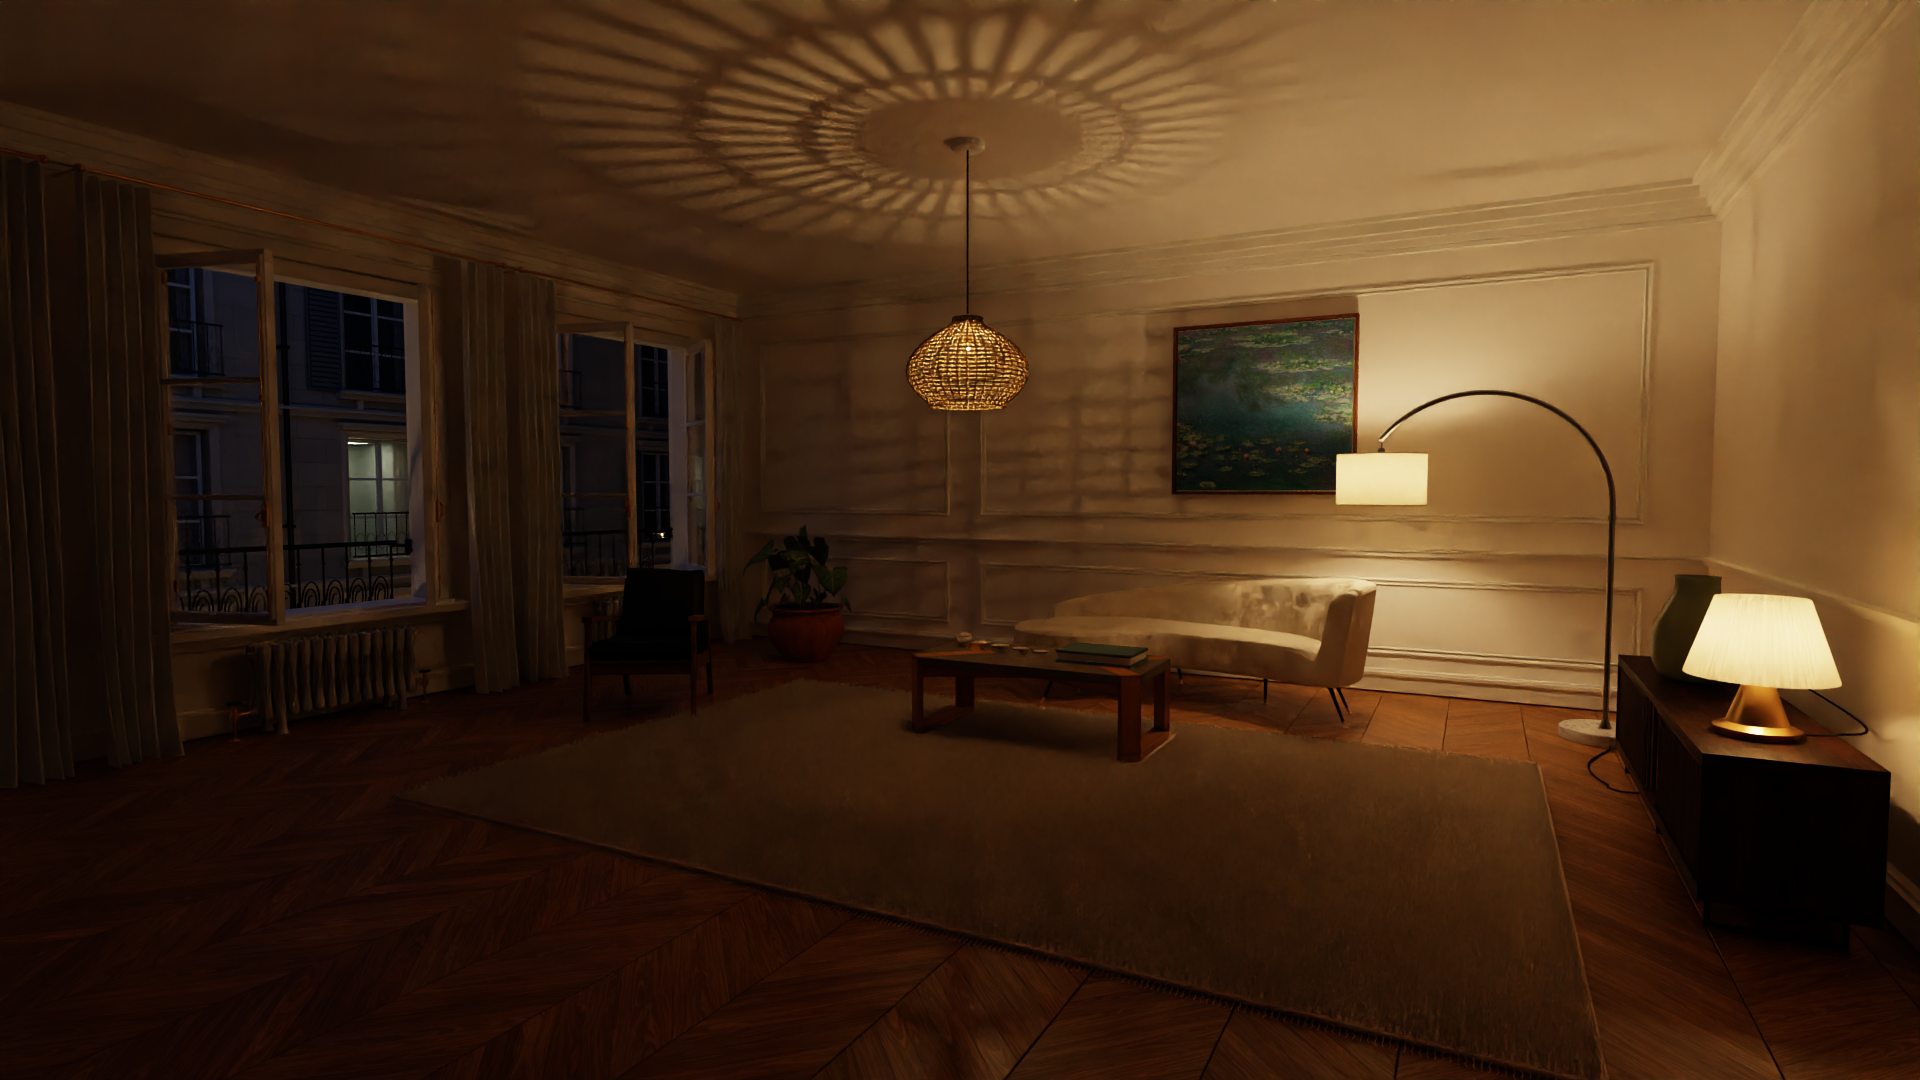
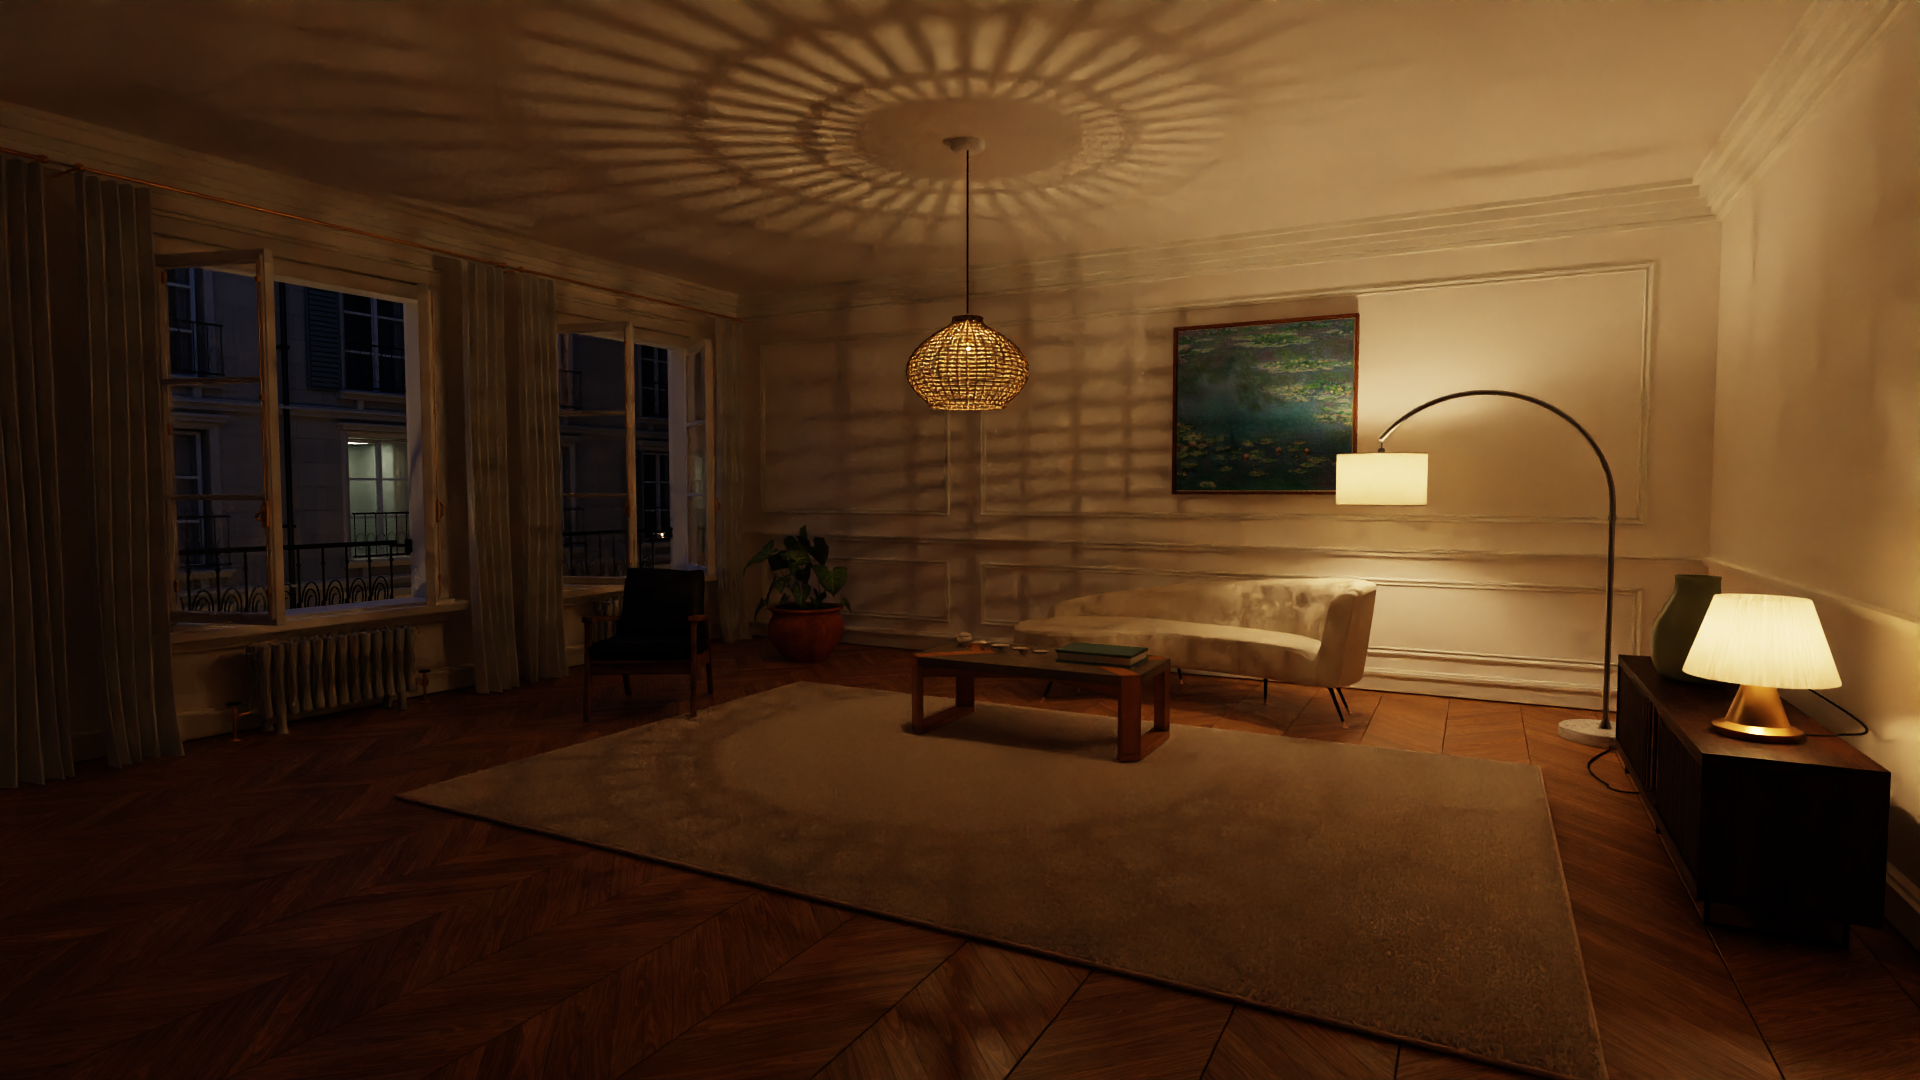
Publish Full HD boucle rug and corrected lighting previews

Changed region(s): [[0.2188, 0.6111, 0.8125, 0.9167], [0.75, 0.9472, 0.7812, 0.9778]]

diff --git a/docs/VALIDATION.md b/docs/VALIDATION.md
@@ -62,13 +62,15 @@ The dense apartment exposed command-buffer failures, including a user-reported `
 
 The target is a heuristic, not a promise that future commands cannot exceed it. Reports include command count, total GPU command time, longest command and maximum samples per command. Error reports retain the driver message, tile and sample range. Failed commands are not retried because their writes may be incomplete. Native desktop responsiveness and competing GPU workloads still need interactive assessment.
 
+Six [IORegistry readings](results/m1-pro-boucle-gpu-activity.json) taken five seconds apart during the revised Full HD night render reported 92–97% GPU device utilization. These are system-wide counters, not exclusive process occupancy or proof of optimal kernel efficiency.
+
 Ten [IORegistry readings](results/m1-pro-daynight-gpu-activity.json) sampled five seconds apart during an earlier daylight run at commit `2825875` reported 99–100% GPU device utilization. These are system-wide counters, not exclusive utilization by this process or proof of optimal kernel efficiency.
 
 An interactive viewer was also running during that earlier daylight run. It completed 128 samples per pixel at Full HD with zero invalid samples in 718.65 seconds of transport and 3.51 seconds of filtering. Its 64,770 GPU commands took at most 32.33 ms each. This validates a shared-workload run of the scheduler; it is not an isolated throughput benchmark of the revised scene.
 
 ## Images
 
-The facade now reuses the apartment's plaster and linen texture handles. The [deterministic comparison](results/m1-pro-texture-reuse.json) records 45 → 43 atlas entries and 33,587,232 fewer packed scene bytes. Day and night linear EXR files are byte-for-byte identical before and after this change at 73 × 47, 64 samples and eight interactions on CPU. This checks pixel equivalence and storage, not a speedup. The archived Full HD exports below retain their measured settings and timings from `397a067`, before this allocation-only change and the boucle revision.
+The facade now reuses the apartment's plaster and linen texture handles. The [deterministic comparison](results/m1-pro-texture-reuse.json) records 45 → 43 atlas entries and 33,587,232 fewer packed scene bytes. Day and night linear EXR files are byte-for-byte identical before and after this change at 73 × 47, 64 samples and eight interactions on CPU. This checks pixel equivalence and storage, not a speedup. The current Full HD exports include both the shared atlas handles and the revised boucle geometry.
 
 The opposite facade contains stone courses, recessed glazed rooms, window profiles, sills, cornices, shutters, railings and downpipes. Seven street lamps sit on a street 7.3 m below the apartment floor. The night region study at 650 × 430 pixels and 128 samples completed with zero invalid samples in 143.69 seconds of transport, with a maximum GPU command time of 35.61 ms. An interactive viewer was also running, so this is a shared-workload observation.
 
@@ -84,14 +86,16 @@ The revised rug replaces the tall, narrow polygonal strands with 58,200 short bo
 
 The matching daylight and night apartment previews use 1920 × 1080, native Metal and Open Image Denoise. The daylight image uses 128 samples and the night image uses 256. Per-image JSON reports record actual settings, transport timings, denoising timings and dispatch measurements. The viewer snapshot reuses the finished daylight EXR through `examples/viewer_snapshot.rs`; it does not retrace the scene.
 
-The Full HD exports at source commit `397a067` completed with zero invalid samples and no Metal command failure. Both use a 12-interaction limit. These are development runs, not an isolated Cycles comparison.
+The Full HD exports at source commit `8c21a72` completed with zero invalid samples and no Metal command failure. Both use a 12-interaction limit. These are development runs, not an isolated Cycles comparison.
 
 | Scene | Samples per pixel | Transport | Denoising | Longest GPU command |
 | --- | ---: | ---: | ---: | ---: |
-| interior | 128 | 617.47 s | 3.41 s | 35.11 ms |
-| interior-night | 256 | 1729.23 s | 2.52 s | 73.20 ms |
+| interior | 128 | 457.23 s | 2.10 s | 35.06 ms |
+| interior-night | 256 | 954.42 s | 2.21 s | 29.61 ms |
 
-The earlier apartment previews contain about 3.24 million primitives, including 58,200 curved rug loops, physical interlaced rattan, source lamp fittings, an 80 mm clear bulb envelope, transmitting shades, white timber joinery, connected cables, irregular curtains, balcony scrollwork and a centered public-domain Monet canvas. The lamps are generic existing source models; their emission is scene-tuned rather than calibrated in lumens. Rug loops use the opaque surface BRDF, not a dedicated fiber-scattering model. The source sofa uses an adapted diffuse/GGX fabric material rather than its original velvet sheen shader. These are development previews, not a claim of photographic equivalence or a controlled performance comparison.
+The previous Full HD previews at `397a067` took 617.47 s by day and 1729.23 s by night. Geometry, materials and numerical behavior changed in the current revision; these observations are not a controlled equal-quality speed comparison.
+
+The current apartment contains about 1.82 million primitives, including 58,200 rounded rug loops, physical interlaced rattan, source lamp fittings, an 80 mm clear bulb envelope, transmitting shades, white timber joinery, connected cables, irregular curtains, balcony scrollwork and a centered public-domain Monet canvas. The lamps are generic existing source models; their emission is scene-tuned rather than calibrated in lumens. Rug loops use the opaque surface BRDF, not a dedicated fiber-scattering model. The source sofa uses an adapted diffuse/GGX fabric material rather than its original velvet sheen shader. These are development previews, not a claim of photographic equivalence or a controlled performance comparison.
 
 Studio and courtyard previews retain their earlier CPU renders at 900 × 600 and 256 samples. The cloud study uses 720 × 480, 256 samples and 24 bounces. Raw PNG and EXR files remain local; large raw outputs are excluded from Git.
 
